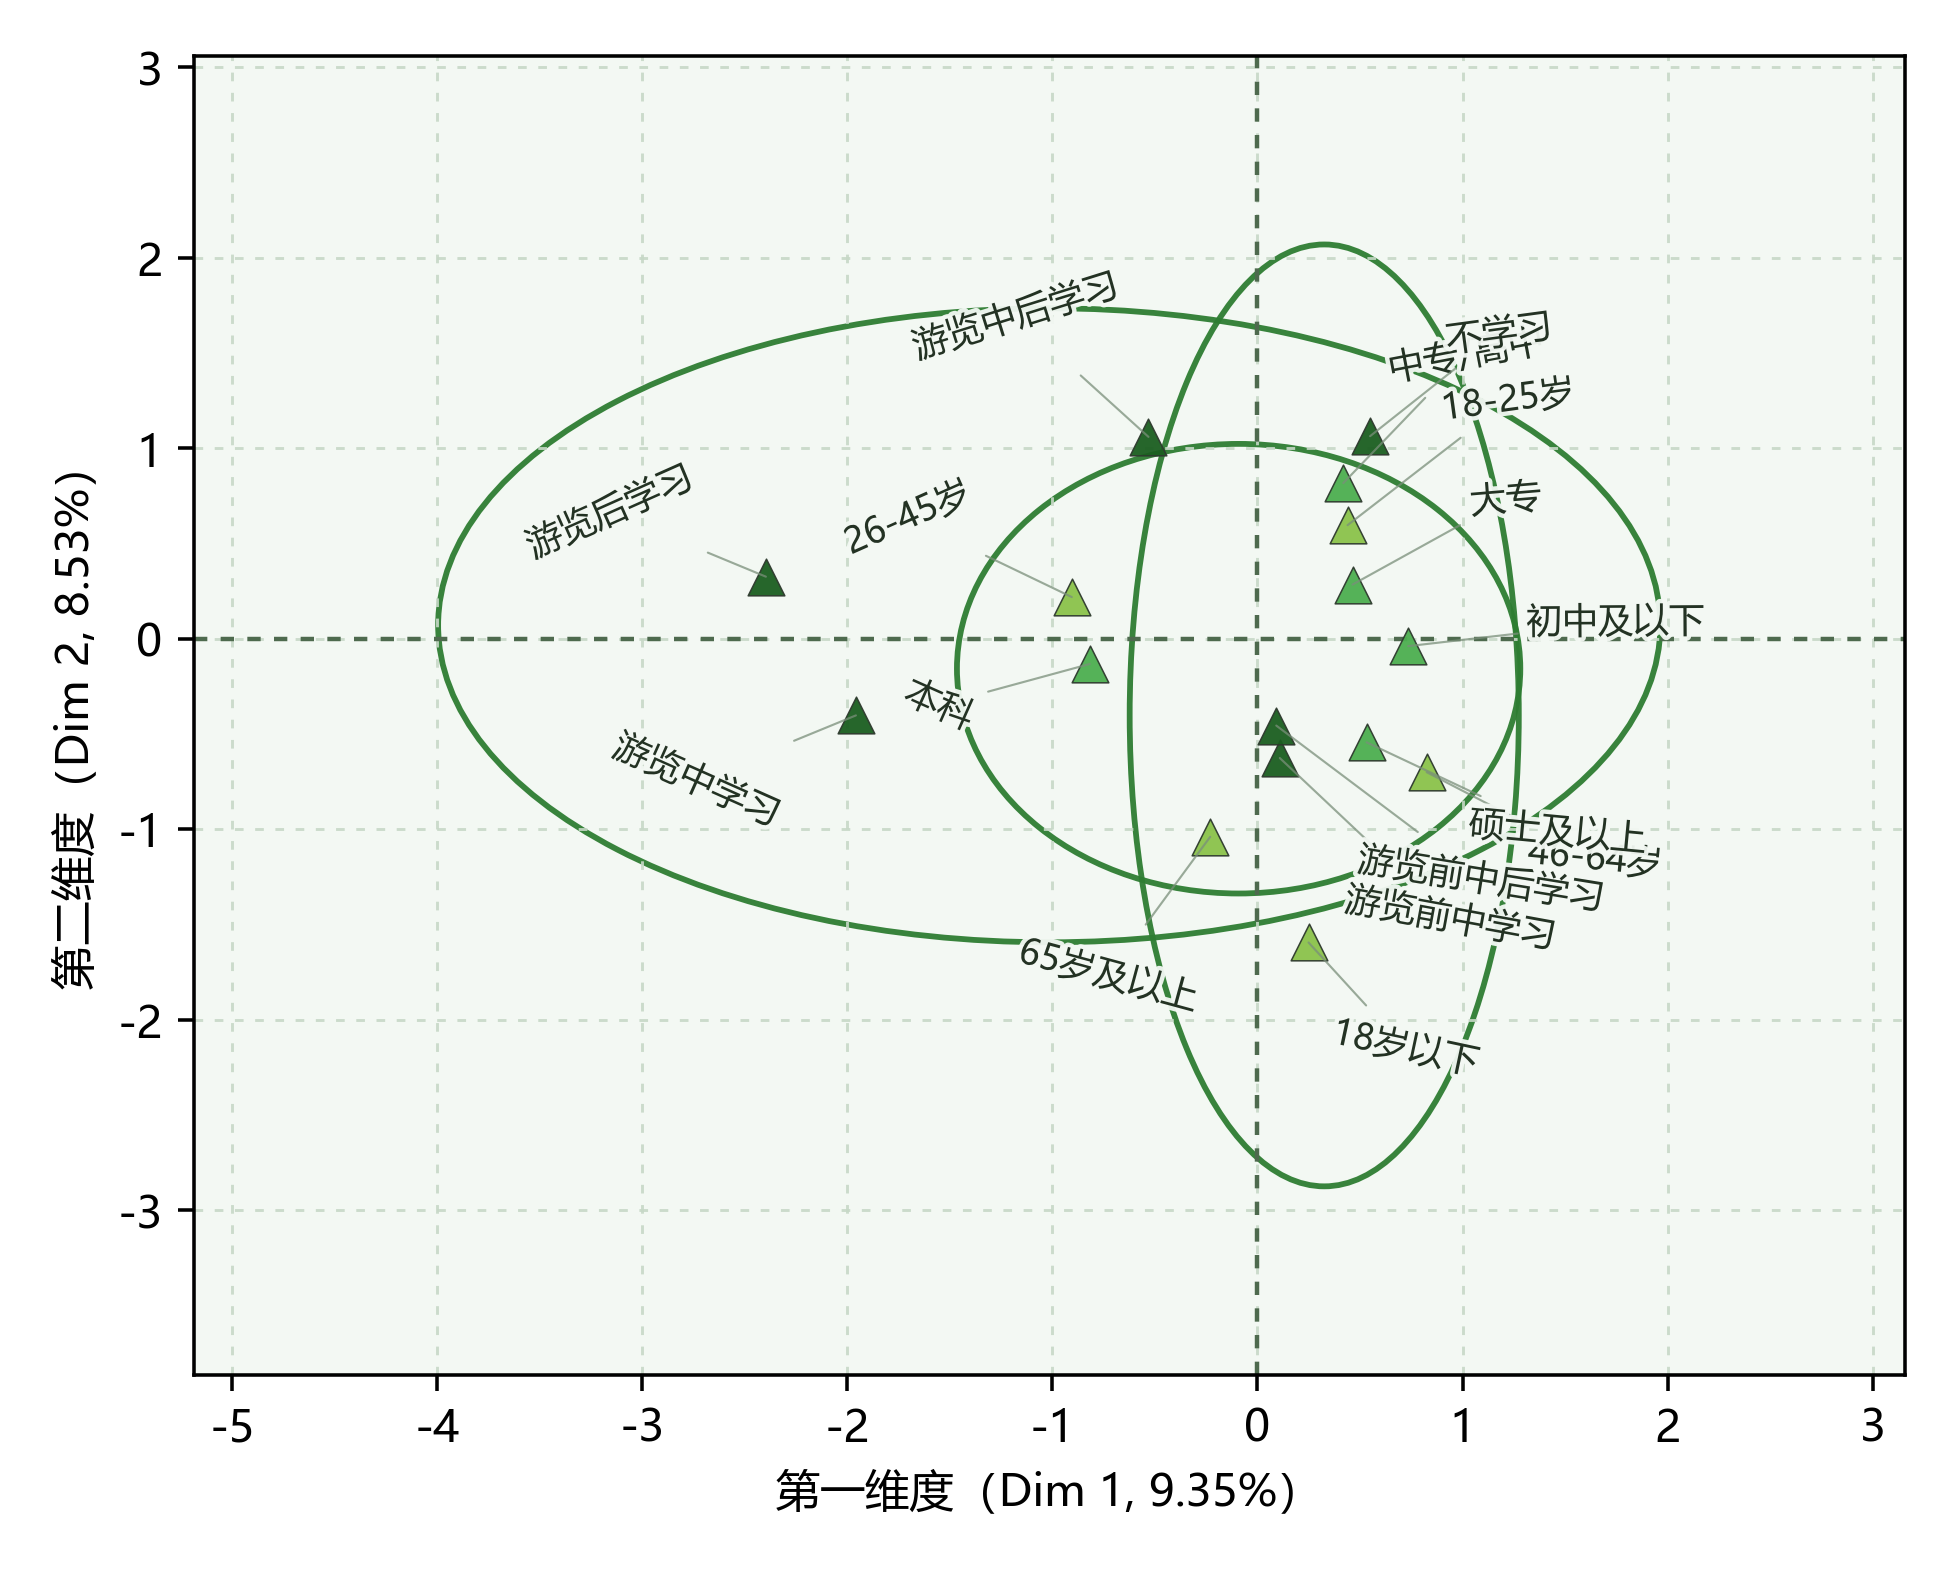
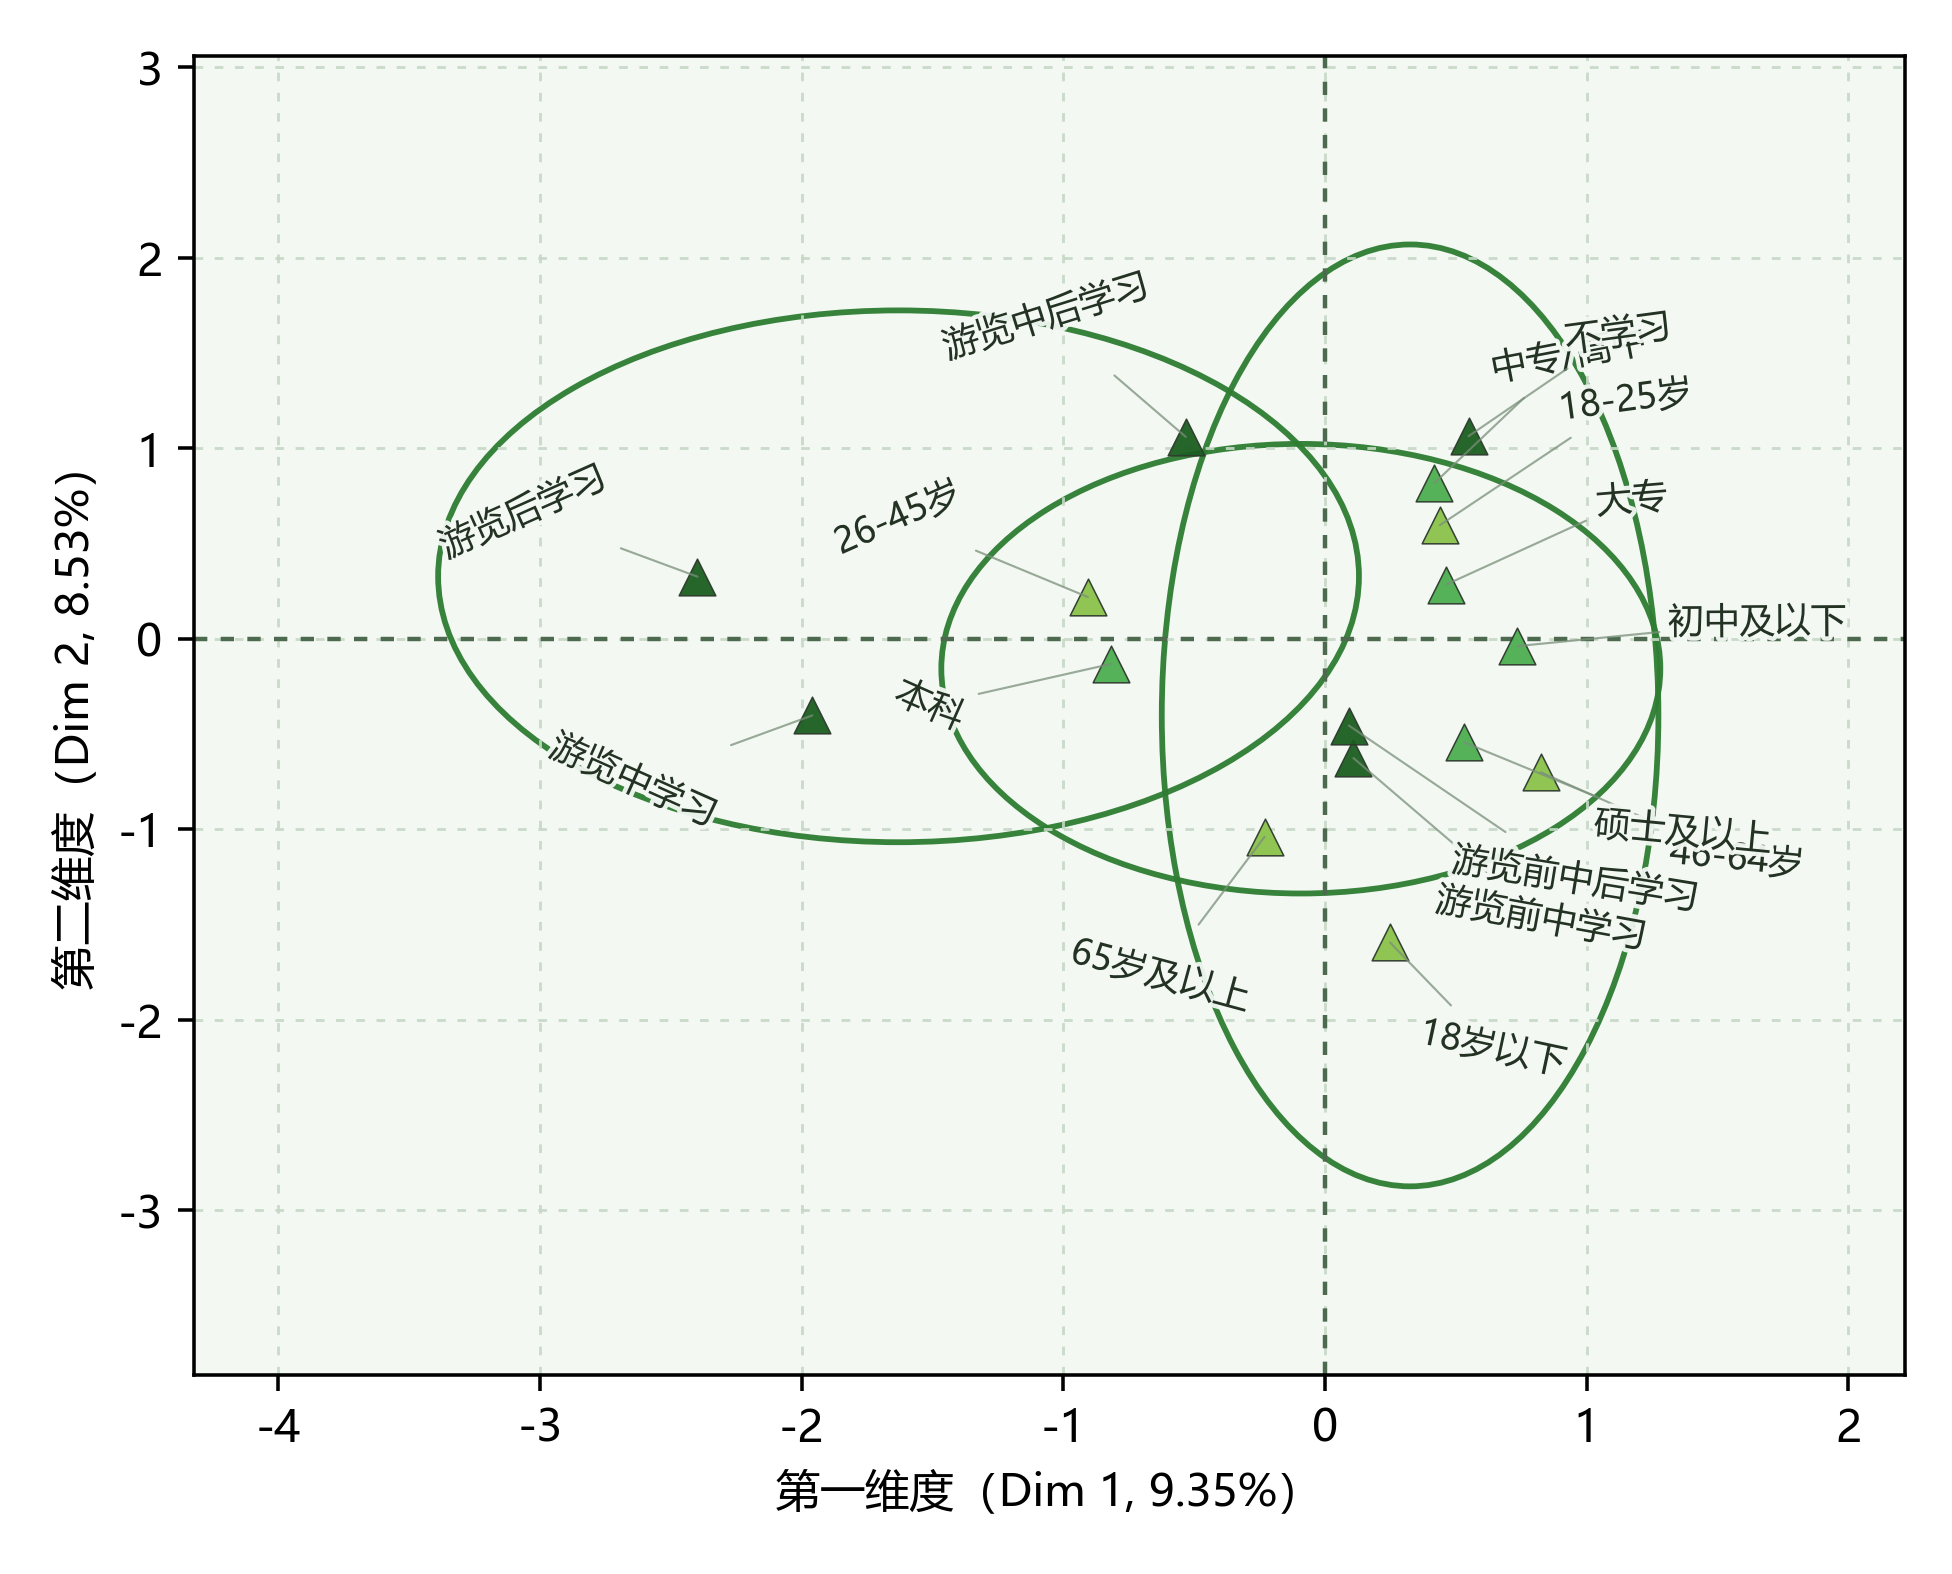
13

diff --git a/scripts/redraw_status_fig5_options.py b/scripts/redraw_status_fig5_options.py
@@ -1,0 +1,123 @@
+#!/usr/bin/env python3
+from __future__ import annotations
+
+from pathlib import Path
+
+import matplotlib
+
+matplotlib.use("Agg")
+import matplotlib.pyplot as plt
+import numpy as np
+import pandas as pd
+from matplotlib.colors import LinearSegmentedColormap
+
+
+plt.rcParams["font.sans-serif"] = ["Microsoft YaHei", "SimHei", "SimSun", "Arial Unicode MS"]
+plt.rcParams["axes.unicode_minus"] = False
+
+
+OUTPUT_DIR = Path("new/现状分析")
+BASE_CSV = OUTPUT_DIR / "fig5_数据口径_沿用原图标注值.csv"
+
+
+def build_data() -> pd.DataFrame:
+    # 口径说明：数值沿用 new/现状分析/fig5.png 图中标注值，不更换数据来源。
+    rows = [
+        ("中医药文化博物馆", 4.21, 4.08),
+        ("国医堂诊疗区", 4.15, 4.23),
+        ("秘药局产品区", 3.87, 3.76),
+        ("互动体验区", 3.64, 3.45),
+        ("明清建筑景观区", 4.33, 4.19),
+    ]
+    df = pd.DataFrame(rows, columns=["功能区", "保护状况均值", "体验满意度均值"])
+    df["差值(保护-体验)"] = (df["保护状况均值"] - df["体验满意度均值"]).round(2)
+    return df
+
+
+def draw_dumbbell(df: pd.DataFrame, out_png: Path) -> None:
+    work = df.copy()
+    y = np.arange(len(work))
+
+    fig, ax = plt.subplots(figsize=(11.5, 6.8))
+    fig.patch.set_facecolor("#F7F7F5")
+    ax.set_facecolor("#F7F7F5")
+
+    for i, row in work.iterrows():
+        x1 = float(row["保护状况均值"])
+        x2 = float(row["体验满意度均值"])
+        ax.hlines(i, min(x1, x2), max(x1, x2), color="#B8BDC7", linewidth=3.0, alpha=0.9, zorder=1)
+
+    ax.scatter(work["保护状况均值"], y, s=170, color="#2563EB", edgecolor="white", linewidth=1.5, label="保护状况均值", zorder=3)
+    ax.scatter(work["体验满意度均值"], y, s=170, color="#F59E0B", edgecolor="white", linewidth=1.5, label="体验满意度均值", zorder=3)
+
+    for i, row in work.iterrows():
+        p = float(row["保护状况均值"])
+        e = float(row["体验满意度均值"])
+        gap = float(row["差值(保护-体验)"])
+        ax.text(p + 0.02, i + 0.10, f"{p:.2f}", fontsize=10, color="#1E3A8A")
+        ax.text(e + 0.02, i - 0.22, f"{e:.2f}", fontsize=10, color="#92400E")
+        ax.text(max(p, e) + 0.08, i - 0.03, f"Δ={gap:+.2f}", fontsize=9, color="#4B5563")
+
+    ax.set_yticks(y)
+    ax.set_yticklabels(work["功能区"], fontsize=11)
+    ax.set_xlim(3.25, 4.48)
+    ax.set_xlabel("均值（1-5分）", fontsize=12)
+    ax.set_title("fig5 叶开泰各功能区保护与体验对比（哑铃图）", fontsize=14, pad=12)
+    ax.grid(axis="x", linestyle=(0, (2, 3)), alpha=0.35)
+    ax.spines["top"].set_visible(False)
+    ax.spines["right"].set_visible(False)
+    ax.spines["left"].set_visible(False)
+    ax.tick_params(axis="y", length=0)
+    ax.legend(loc="lower right", frameon=False)
+    fig.tight_layout()
+    fig.savefig(out_png, dpi=320)
+    plt.close(fig)
+
+
+def draw_heatmap(df: pd.DataFrame, out_png: Path) -> None:
+    work = df.copy()
+    mat = work[["保护状况均值", "体验满意度均值"]].to_numpy(dtype=float)
+
+    # 绿色主色调：低值浅绿，高值深绿，保持可读对比。
+    cmap = LinearSegmentedColormap.from_list(
+        "status_green",
+        ["#F2FBF3", "#DDF4E1", "#BFE8C7", "#8FD5A2", "#4FAE73", "#1F7A4E"],
+    )
+    fig, ax = plt.subplots(figsize=(8.8, 6.8))
+    fig.patch.set_facecolor("#FCFCFA")
+    ax.set_facecolor("#FCFCFA")
+
+    im = ax.imshow(mat, cmap=cmap, aspect="auto", vmin=3.3, vmax=4.4)
+
+    for i in range(mat.shape[0]):
+        for j in range(mat.shape[1]):
+            ax.text(j, i, f"{mat[i, j]:.2f}", ha="center", va="center", fontsize=11, color="#1F2937")
+
+    ax.set_xticks([0, 1])
+    ax.set_xticklabels(["保护状况均值", "体验满意度均值"], fontsize=11)
+    ax.set_yticks(np.arange(len(work)))
+    ax.set_yticklabels(work["功能区"], fontsize=11)
+    # 按需去除图题，便于直接贴入正文版式。
+
+    cbar = fig.colorbar(im, ax=ax, fraction=0.045, pad=0.04)
+    cbar.set_label("均值（1-5分）", fontsize=11)
+
+    for spine in ax.spines.values():
+        spine.set_visible(False)
+
+    fig.tight_layout()
+    fig.savefig(out_png, dpi=320)
+    plt.close(fig)
+
+
+def main() -> None:
+    OUTPUT_DIR.mkdir(parents=True, exist_ok=True)
+    df = build_data()
+    df.to_csv(BASE_CSV, index=False, encoding="utf-8-sig")
+
+    draw_dumbbell(df, OUTPUT_DIR / "fig5_optionA_哑铃图.png")
+    draw_heatmap(df, OUTPUT_DIR / "fig5_optionB_热力矩阵.png")
+
+
+if __name__ == "__main__":
+    main()

diff --git a/scripts/draw_cultural_learning_mca.py b/scripts/draw_cultural_learning_mca.py
@@ -95,7 +95,6 @@ CLUSTER_B_KEYS = {
     (LEARNING_MODE_COL, 4),
     (LEARNING_MODE_COL, 3),
     (LEARNING_MODE_COL, 2),
-    (AGE_COL, 4),
 }
 CLUSTER_C_KEYS = {
     (LEARNING_MODE_COL, 1),
